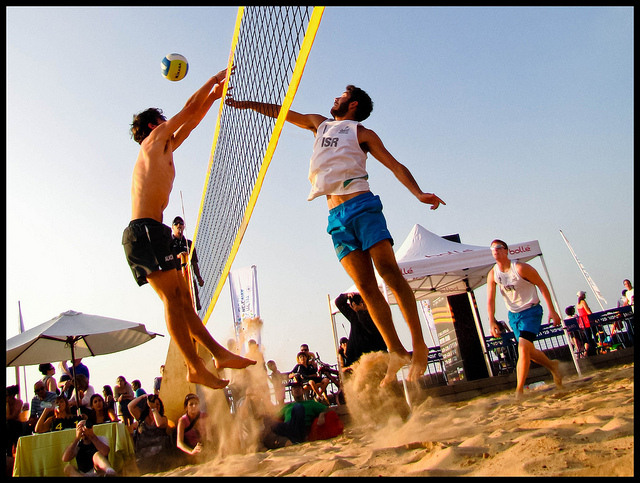
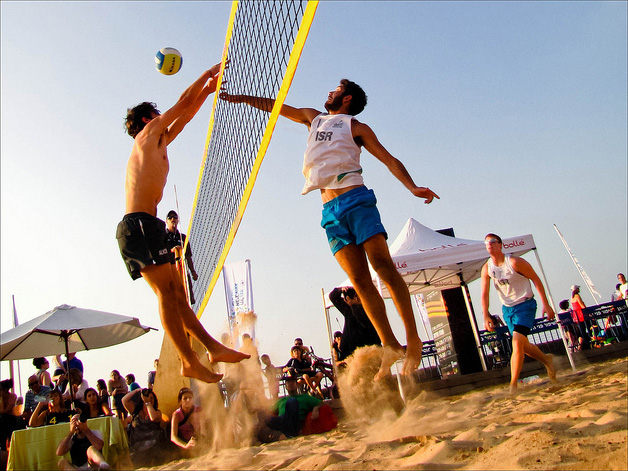
v3.3

diff --git a/Assignment1.css b/Assignment1.css
@@ -255,8 +255,9 @@ button :hover {
   padding: 10px;
 }
 .imgcolumn img{
-	width:300px;
-	height: auto;
+	border: 5px black solid;
+	width:auto;
+	height: 200px;
 }
 .imgrow::after {
   content: "";
